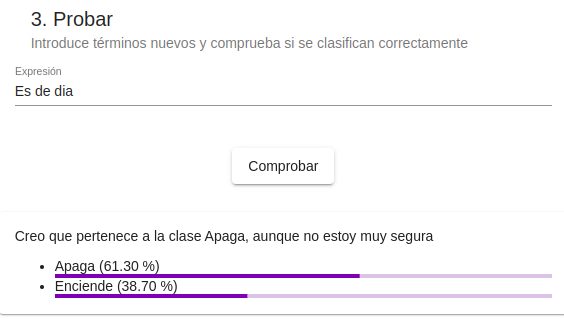
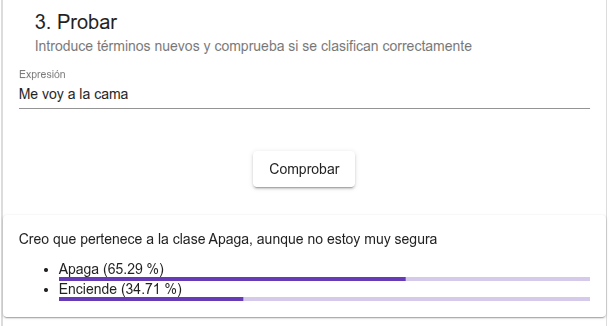
Prueba el modelo del Asistente virtual (3.1) con una frase nueva
«Es de día» era un ejemplo de entrenamiento de Apaga. Captura tomada
del manual (5.3.1), con «Me voy a la cama».

Changed region(s): [[0.0, 0.0, 1.0, 1.0], [0.422, 0.4601, 0.6028, 0.5828]]

diff --git a/docs/03-ia/01-asistente-virtual.md b/docs/03-ia/01-asistente-virtual.md
@@ -61,7 +61,7 @@ Escribimos frases **distintas** de los ejemplos y comprobamos en qué clase las 
 
 ![Probar el modelo de textos](../assets/images/3-probar_textos.png "Probar el modelo de textos")
 
-En el ejemplo, el modelo clasifica la frase "Es de día" como **Apaga** con un 61 % de confianza.
+En el ejemplo, el modelo clasifica la frase "Me voy a la cama", que no está entre los ejemplos de entrenamiento, como **Apaga** con un 65 % de confianza.
 
 Si el modelo se equivoca o la confianza es baja, volvemos a **2.1 Entrenar**: revisamos los ejemplos, añadimos otros nuevos y aprendemos de nuevo.
 
